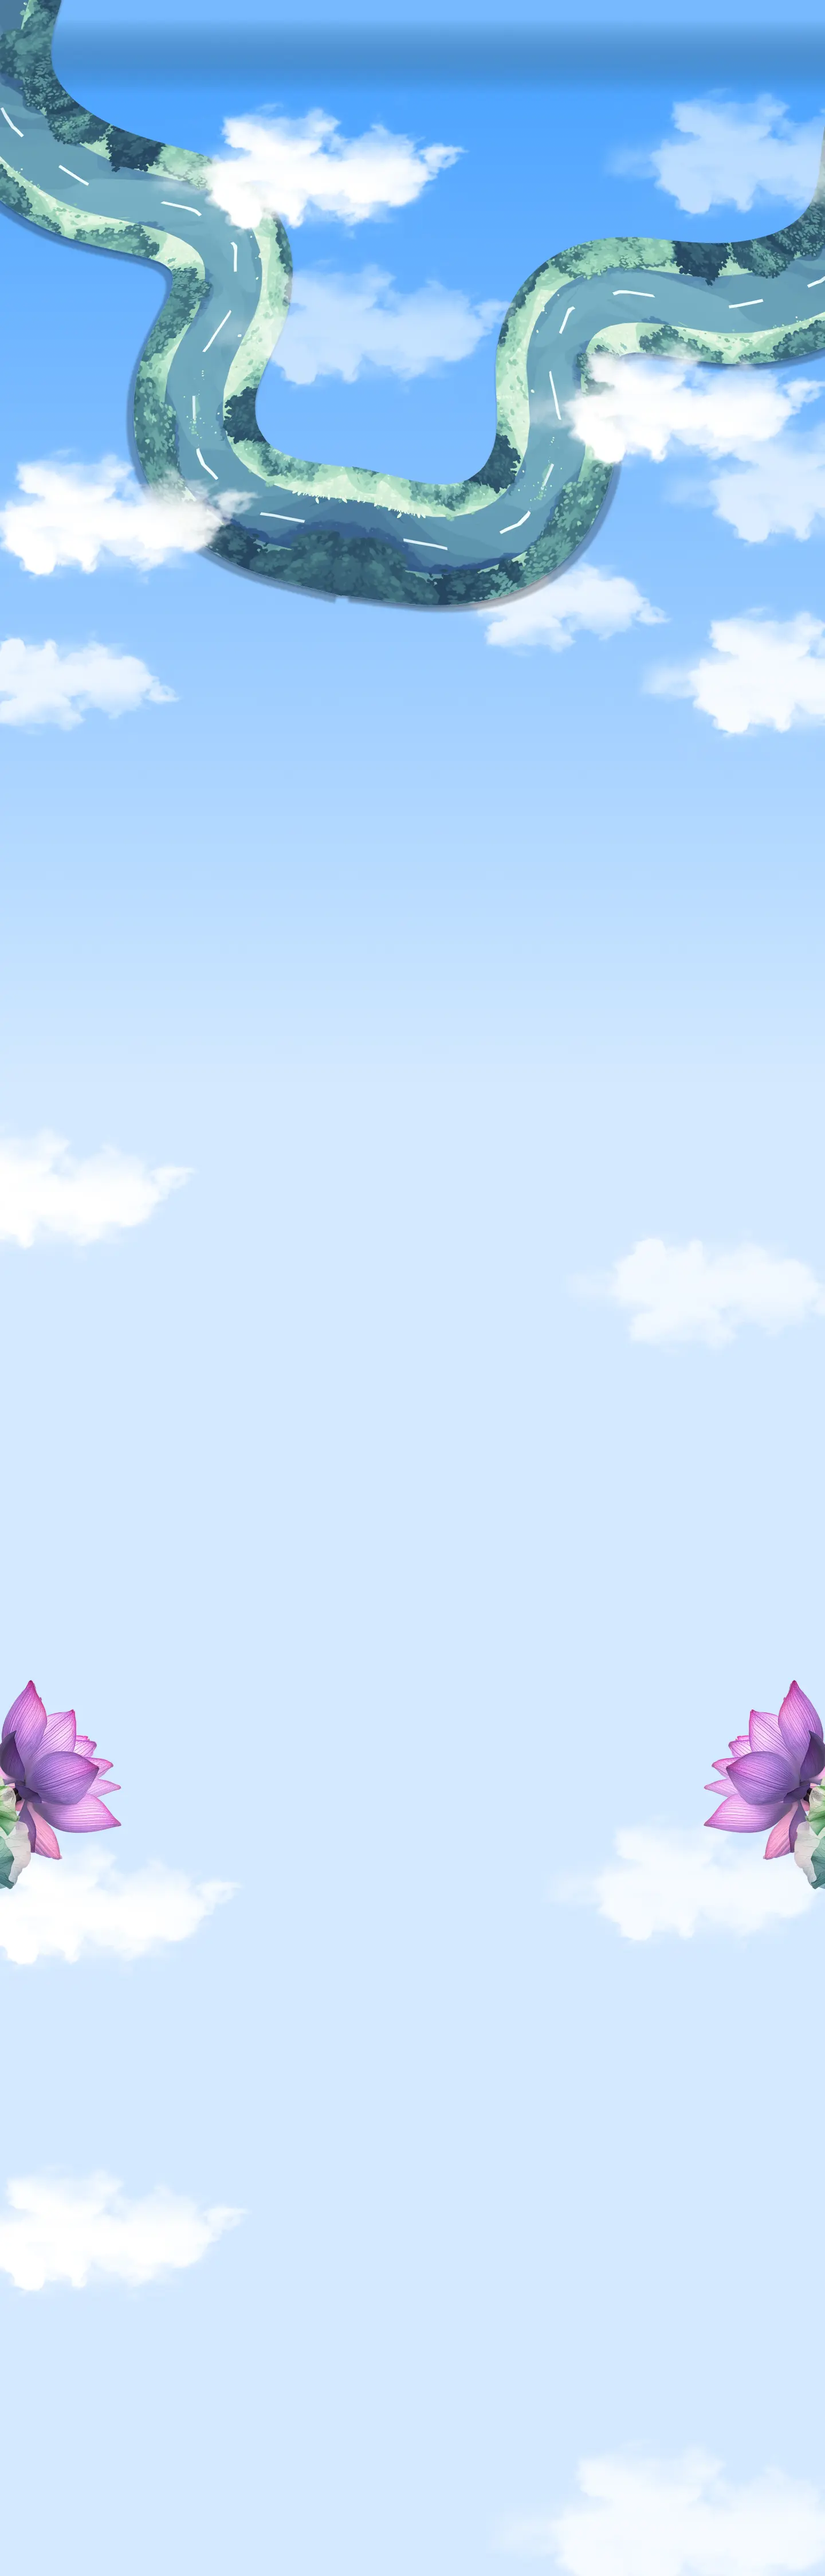
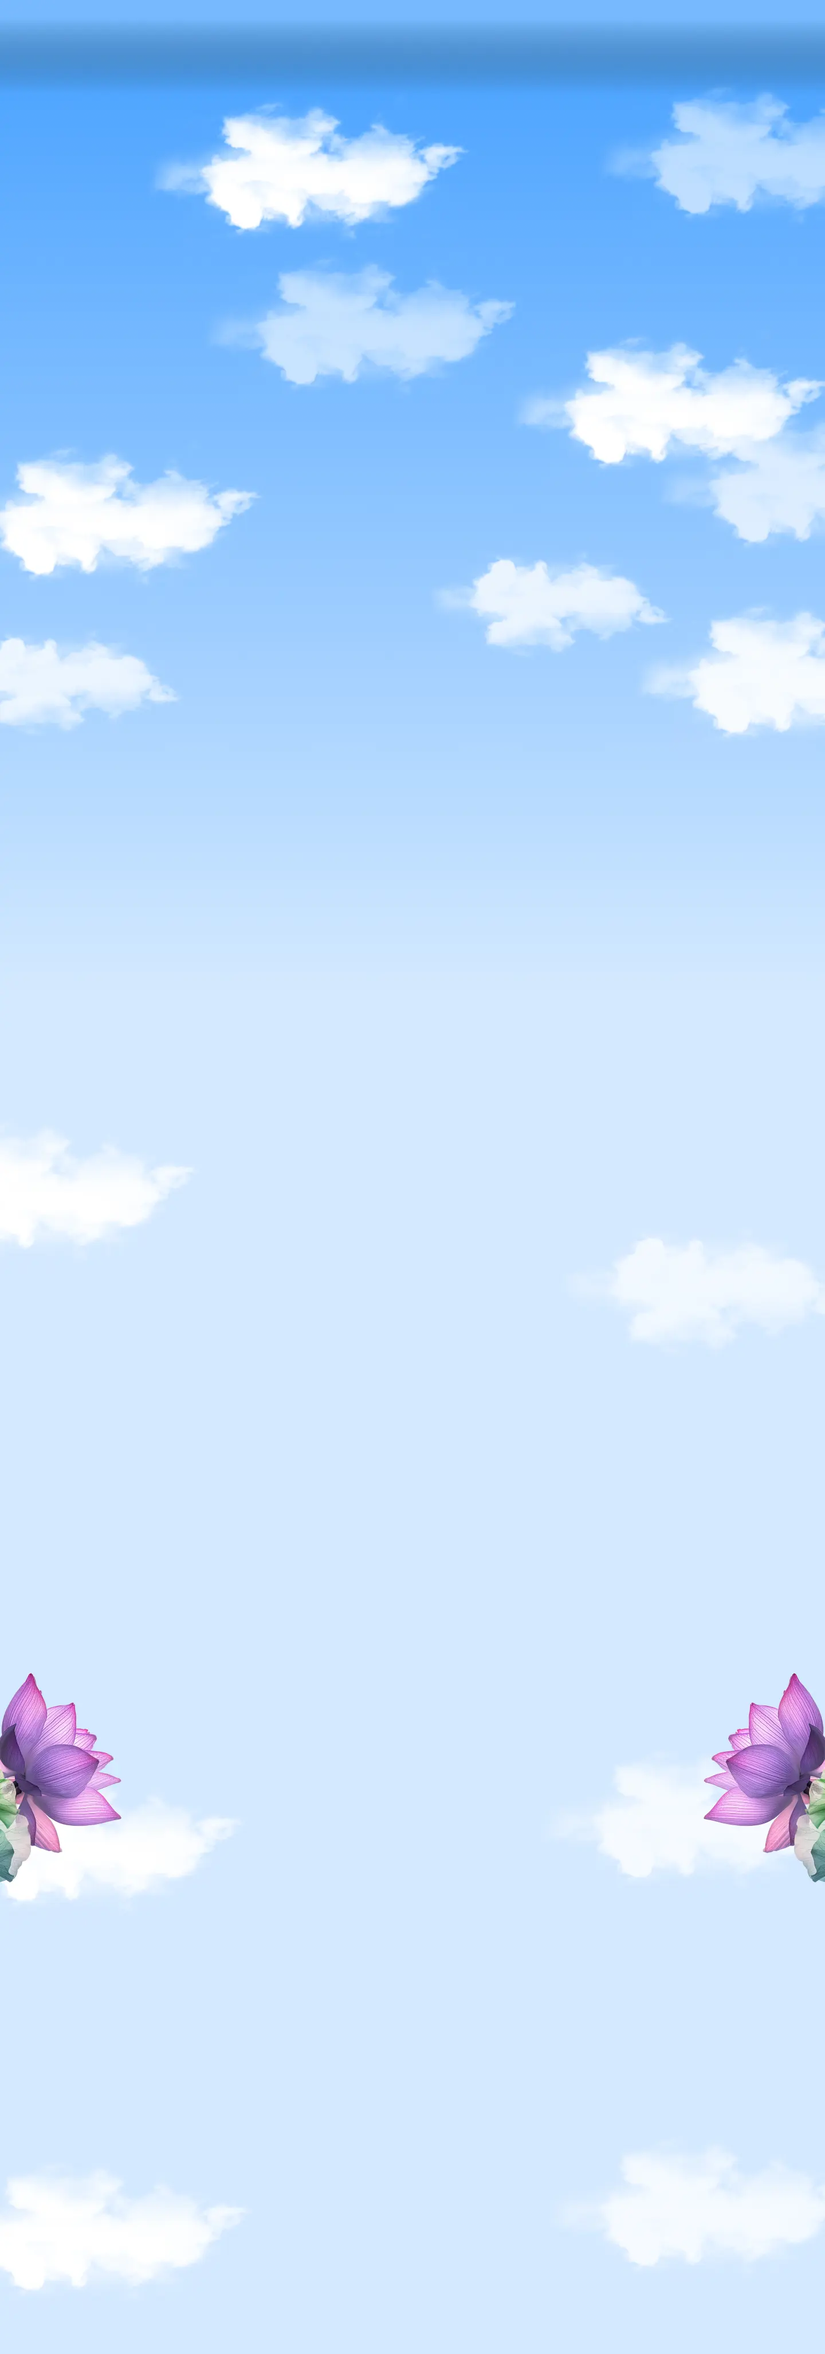
scooter gif added

diff --git a/src/components/Profile/EventsPage/Neweventpage/newEventPage.js b/src/components/Profile/EventsPage/Neweventpage/newEventPage.js
@@ -7,7 +7,7 @@ import { useNavigate } from 'react-router-dom';
 import textdec from "../../../../assets/textdec.svg";
 import textdecrev from "../../../../assets/textdecrev.svg"
 import AllEvents from "../EventMainPage.js";
-
+import scootergif from "../../../../assets/Events_bike Animation.gif";
 const NewEventPage = () => {
 
    	const [loading, setLoading] = useState(false);
@@ -26,18 +26,24 @@ const NewEventPage = () => {
     <div className='neweventmain'>
         <img src={newevbg} className='newbgevimg' alt="newbg"/>     
         <img src={newevbgmob} className='newbgevimgmob' alt="newbgmob"/>
+        <div className="scootergif">
+            
+            <img src={scootergif}  className="scooter_gif" alt="scootergif"/>
+            </div>
         <div className="newevpgnav">
             <Navbar
             fontcolor="black"
             bright="brightness(0)"/>
             </div>  
             <div className="newevpgtitle">
+            
               <div className="newtitlewrapp">
                 <h3>Welcome to Thomso’24!</h3>
                 <h1> Events</h1>
                   {!loggedin?(<button onClick={()=>navigate('/register')}>Register Now</button>):(<></>)}
               </div>
               </div>  
+              
               <div className="newallevents">
                 <div className="newalltitlediv">
                   <img src={textdec} className='textdecimg' alt ="decimg"/>

diff --git a/src/components/Profile/EventsPage/Neweventpage/NewEventPage.css b/src/components/Profile/EventsPage/Neweventpage/NewEventPage.css
@@ -25,12 +25,33 @@
     justify-content: center;
     width:100vw;
     height:70vw;    
+    overflow: hidden;
+}
+.scootergif{
+    width:100vw;
+    position: absolute;
+    z-index: 1;
+    height:85vw;
+    overflow: hidden;
+    
+    /* padding-right: 5vw; */
+    /* margin-left: -5vw; */
+    /* background-image: url(../../../../assets/Events_bike\ Animation.gif); */
+}
+.scooter_gif{
+    width: 100vw;
+    height:85vw;
+    position: absolute;
+    transform: scale(2);
+    margin-left: -3vw;
+    /* transform: translateX(-3vw); */
 }
 .newtitlewrapp{
     height:50vh;
     display: flex;
     flex-direction: column;
     align-items: center;
+    z-index: 3;
     /* justify-content: center; */
 }
 .newtitlewrapp h3{
@@ -61,12 +82,14 @@
     flex-direction: column;
     align-items: center;
     justify-content: center;
+    z-index:3;
 }
 .newalltitlediv{
     display: flex;
     justify-content: center;
     align-items: center;
     gap:3vw;
+    z-index:3;
 }
 .newallevents h1{
     font-family: Boeckline;

diff --git a/src/components/EventsPage/EventMainPage.js b/src/components/EventsPage/EventMainPage.js
@@ -24,6 +24,7 @@ import cross_img from "../../assets/Cross.webp";
 import { Link } from "react-router-dom";
 import Select from "react-select";
 import { BoldOutlined } from "@ant-design/icons";
+// import Footer from "../Footer/Footer.js";
 
 const slotsOptions = [
   { value: "Day 1", label: "Day 1" },
